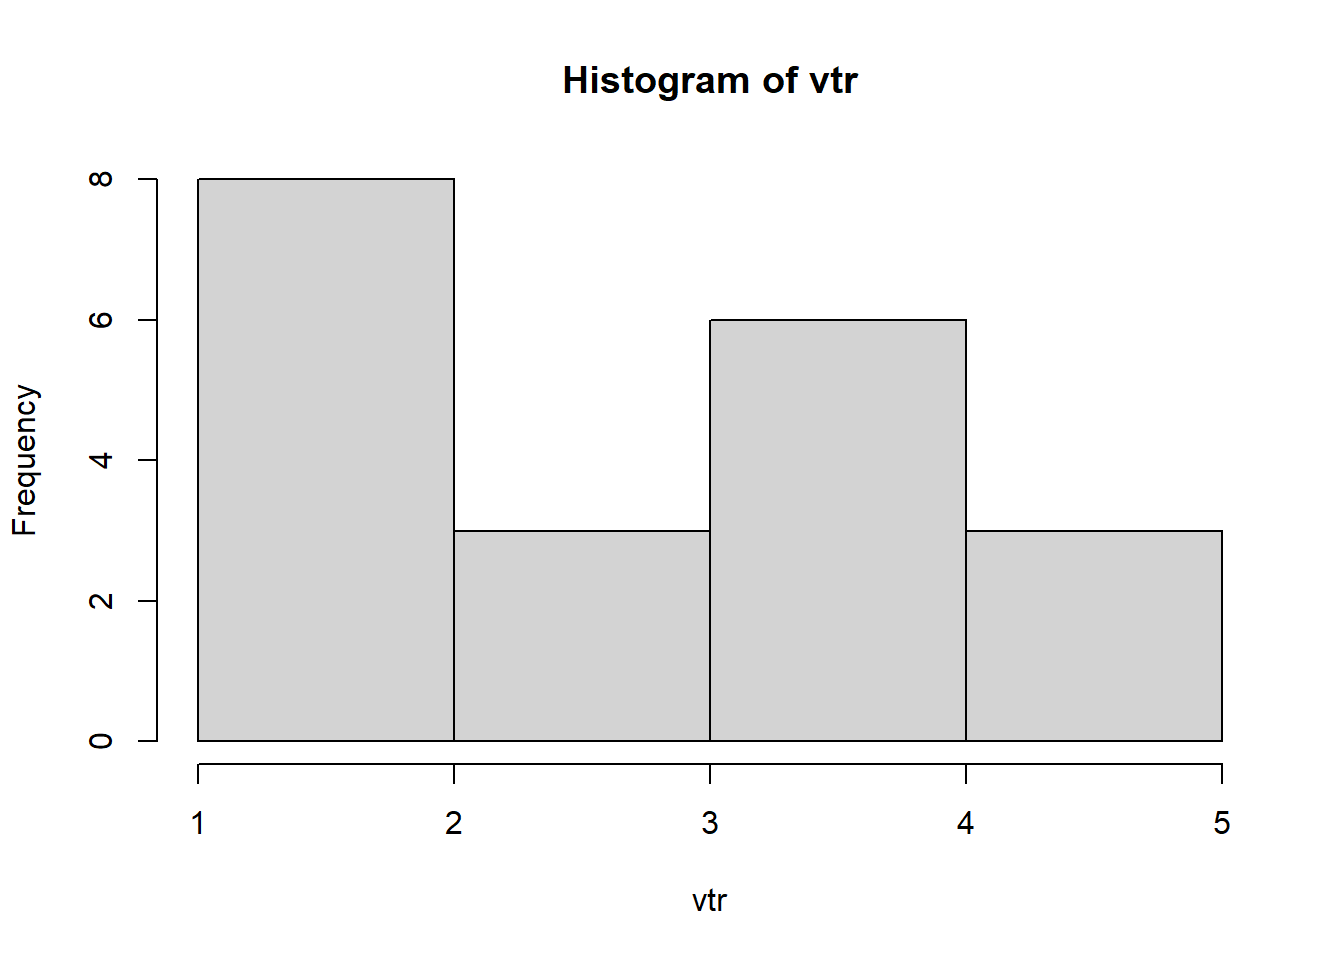
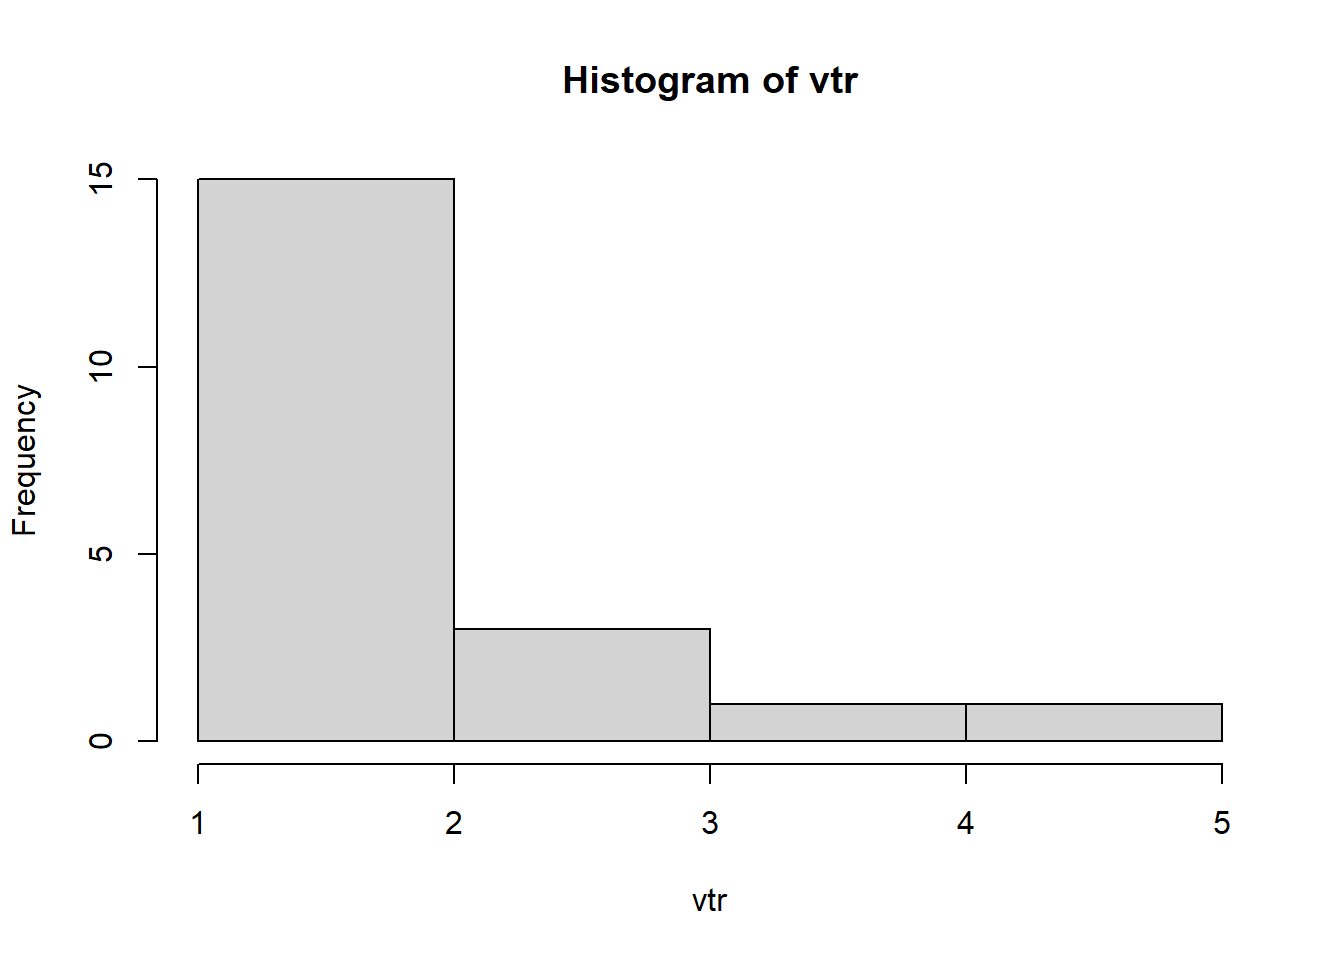
pdf generation updated

diff --git a/chapter2.html b/chapter2.html
@@ -684,15 +684,15 @@ code span.wa { color: #8f5902; font-weight: bold; font-style: italic; } /* Warni
 Матеріали розділу у процесі підготовки.</p>
 </div>
 <div class="sourceCode" id="cb141"><pre class="sourceCode r"><code class="sourceCode r"><span id="cb141-1"><a href="chapter2.html#cb141-1" aria-hidden="true" tabindex="-1"></a><span class="fu">runif</span>(<span class="dv">10</span>)</span></code></pre></div>
-<pre><code>##  [1] 0.15663506 0.94487801 0.76200292 0.01210979 0.46623299 0.57499153
-##  [7] 0.65675818 0.56224027 0.65337501 0.92475844</code></pre>
+<pre><code>##  [1] 0.97462454 0.03967972 0.91590038 0.60223667 0.11837076 0.22157072
+##  [7] 0.43996392 0.75562282 0.05600125 0.77995700</code></pre>
 <div class="sourceCode" id="cb143"><pre class="sourceCode r"><code class="sourceCode r"><span id="cb143-1"><a href="chapter2.html#cb143-1" aria-hidden="true" tabindex="-1"></a><span class="fu">sample</span>(<span class="dv">100</span>)</span></code></pre></div>
-<pre><code>##   [1]  24  99  48  96  16  88   8  21  47  70  74  37  41  92  59  68  43  90
-##  [19]  60  66  49  86  77  55  85  40  98   6 100  29  81  15  56  57  28  75
-##  [37]  76   4  80  79  30  38  25  14  78   2  12  42  26  54  13  89   1  53
-##  [55]  36  27  82  19   3  61  32  93  20  11  39  72  67  34  23   5  65  97
-##  [73]  62  87  73  71  17  10  44  50  63  46  83  58  95  31  69  94   9  33
-##  [91]  18  52  91   7  35  45  64  51  22  84</code></pre>
+<pre><code>##   [1]  70  40  86  32  93  94  25  75  53  87  79  38   7  13  15  96  42  58
+##  [19]  52  11  45  54  92  84  97  47  55  73   2  35  90  59  12  71   1 100
+##  [37]  19  17  46  99  30  63  57  76  89  60  37  56  91   6  49  78  83  44
+##  [55]  65  18  43  80  39  16  66  26  10  33  88  31  36  29  20  27  61  22
+##  [73]  50  21  98   9   8  81  62  24  74  82   5  23  14  95  68  72  85  34
+##  [91]  64  41  69  77   4  51  48  67  28   3</code></pre>
 </div>
 <div id="chapter244" class="section level3" number="2.4.4">
 <h3><span class="header-section-number">2.4.4</span> Інші математичні функції та константи R</h3>

diff --git a/01-chapter1.md b/01-chapter1.md
@@ -247,7 +247,7 @@ dir()
 ## [13] "favicon.ico"            "images"                 "inc"                   
 ## [16] "index.md"               "index.Rmd"              "index.utf8.md"         
 ## [19] "packages.bib"           "preamble.tex"           "r-intro.rds"           
-## [22] "README.md"              "render_commands"        "render3bdc51771dc1.rds"
+## [22] "README.md"              "render_commands"        "render470456f5254a.rds"
 ## [25] "RIntro.Rproj"           "tmp.RData"
 ```
 
@@ -263,7 +263,7 @@ list.files()
 ## [13] "favicon.ico"            "images"                 "inc"                   
 ## [16] "index.md"               "index.Rmd"              "index.utf8.md"         
 ## [19] "packages.bib"           "preamble.tex"           "r-intro.rds"           
-## [22] "README.md"              "render_commands"        "render3bdc51771dc1.rds"
+## [22] "README.md"              "render_commands"        "render470456f5254a.rds"
 ## [25] "RIntro.Rproj"           "tmp.RData"
 ```
 
@@ -359,7 +359,7 @@ vtr
 ```
 
 ```
-##  [1] 2 5 2 1 5 5 4 3 3 1 2 3 5 3 4 2 2 4 4 2
+##  [1] 1 3 5 3 5 5 2 2 4 2 3 2 3 5 2 5 3 2 4 3
 ```
 
 <div class="alert alert-danger">
@@ -380,7 +380,7 @@ print(paste0("Sum: ", vtr_sum))
 ```
 
 ```
-## [1] "Sum: 62"
+## [1] "Sum: 64"
 ```
 
 ```r
@@ -388,7 +388,7 @@ print(paste0("Mean: ", vtr_mean))
 ```
 
 ```
-## [1] "Mean: 3.1"
+## [1] "Mean: 3.2"
 ```
 
 Виведемо гістограму:

diff --git a/02-chapter2.md b/02-chapter2.md
@@ -772,8 +772,8 @@ runif(10)
 ```
 
 ```
-##  [1] 0.93828339 0.42309275 0.67770953 0.09301917 0.71359544 0.94408807
-##  [7] 0.39832404 0.67937085 0.83020718 0.54059827
+##  [1] 0.4009616 0.3032759 0.3505328 0.3252013 0.1319094 0.8920692 0.3198216
+##  [8] 0.9054272 0.3148805 0.3556425
 ```
 
 ```r
@@ -781,12 +781,12 @@ sample(100)
 ```
 
 ```
-##   [1]  19  87  74   5  95  73   2  85  51  36  66  56  96  48  91  50  44  84
-##  [19]  40  70  92  99  30  24  32  45   4   7  17   6  28  58  68  77  22  93
-##  [37]   9  90  41  88  13  72  42  11  81  39  59  15  94   3  18  14  98  47
-##  [55]  80  27  79  43  52  31  63  53  82 100  57  49  61   8  26  69  71  35
-##  [73]  46  16  25  34  37  55  10  29   1  97  89  65  54  83  62  78  20  76
-##  [91]  38  75  86  33  60  12  67  21  23  64
+##   [1]  40  88  69  89  72   1  11  13  49  17  36  74  14  37  81  70  85  64
+##  [19]  63 100  97  55  82  34  46  33  29  96  53  78   9  28  27   5  15  38
+##  [37]  83   2  18  86  35   8  57  32  19  23  77  59   7  50  99  94  58  21
+##  [55]  26  79  56  68  51  47  25  41  71  10  66  75  84  87  92  39  12  22
+##  [73]  16  42  93   4  44  90  30  98  62   6  65  76  95  60  31  20  73  54
+##  [91]  45  61  80  67   3  91  43  48  24  52
 ```
 
 ### Інші математичні функції та константи R {#chapter244}
